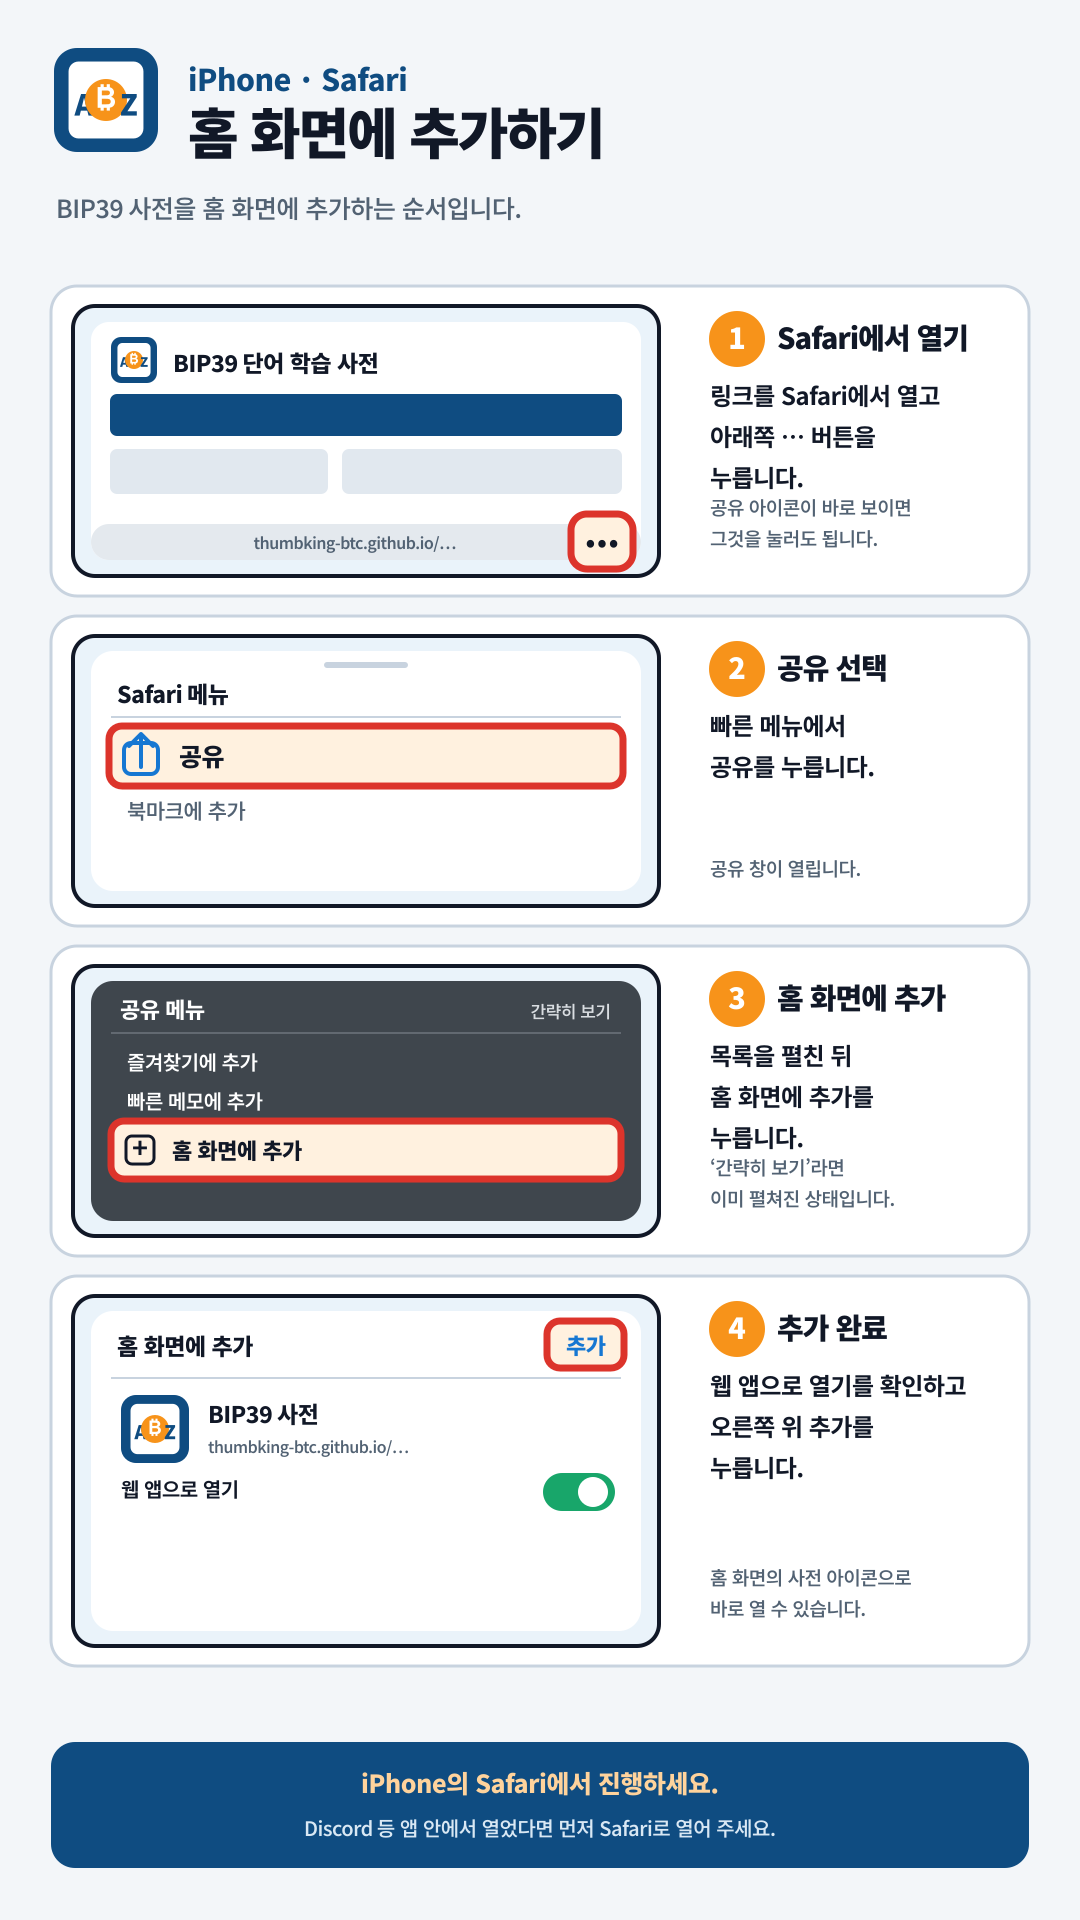
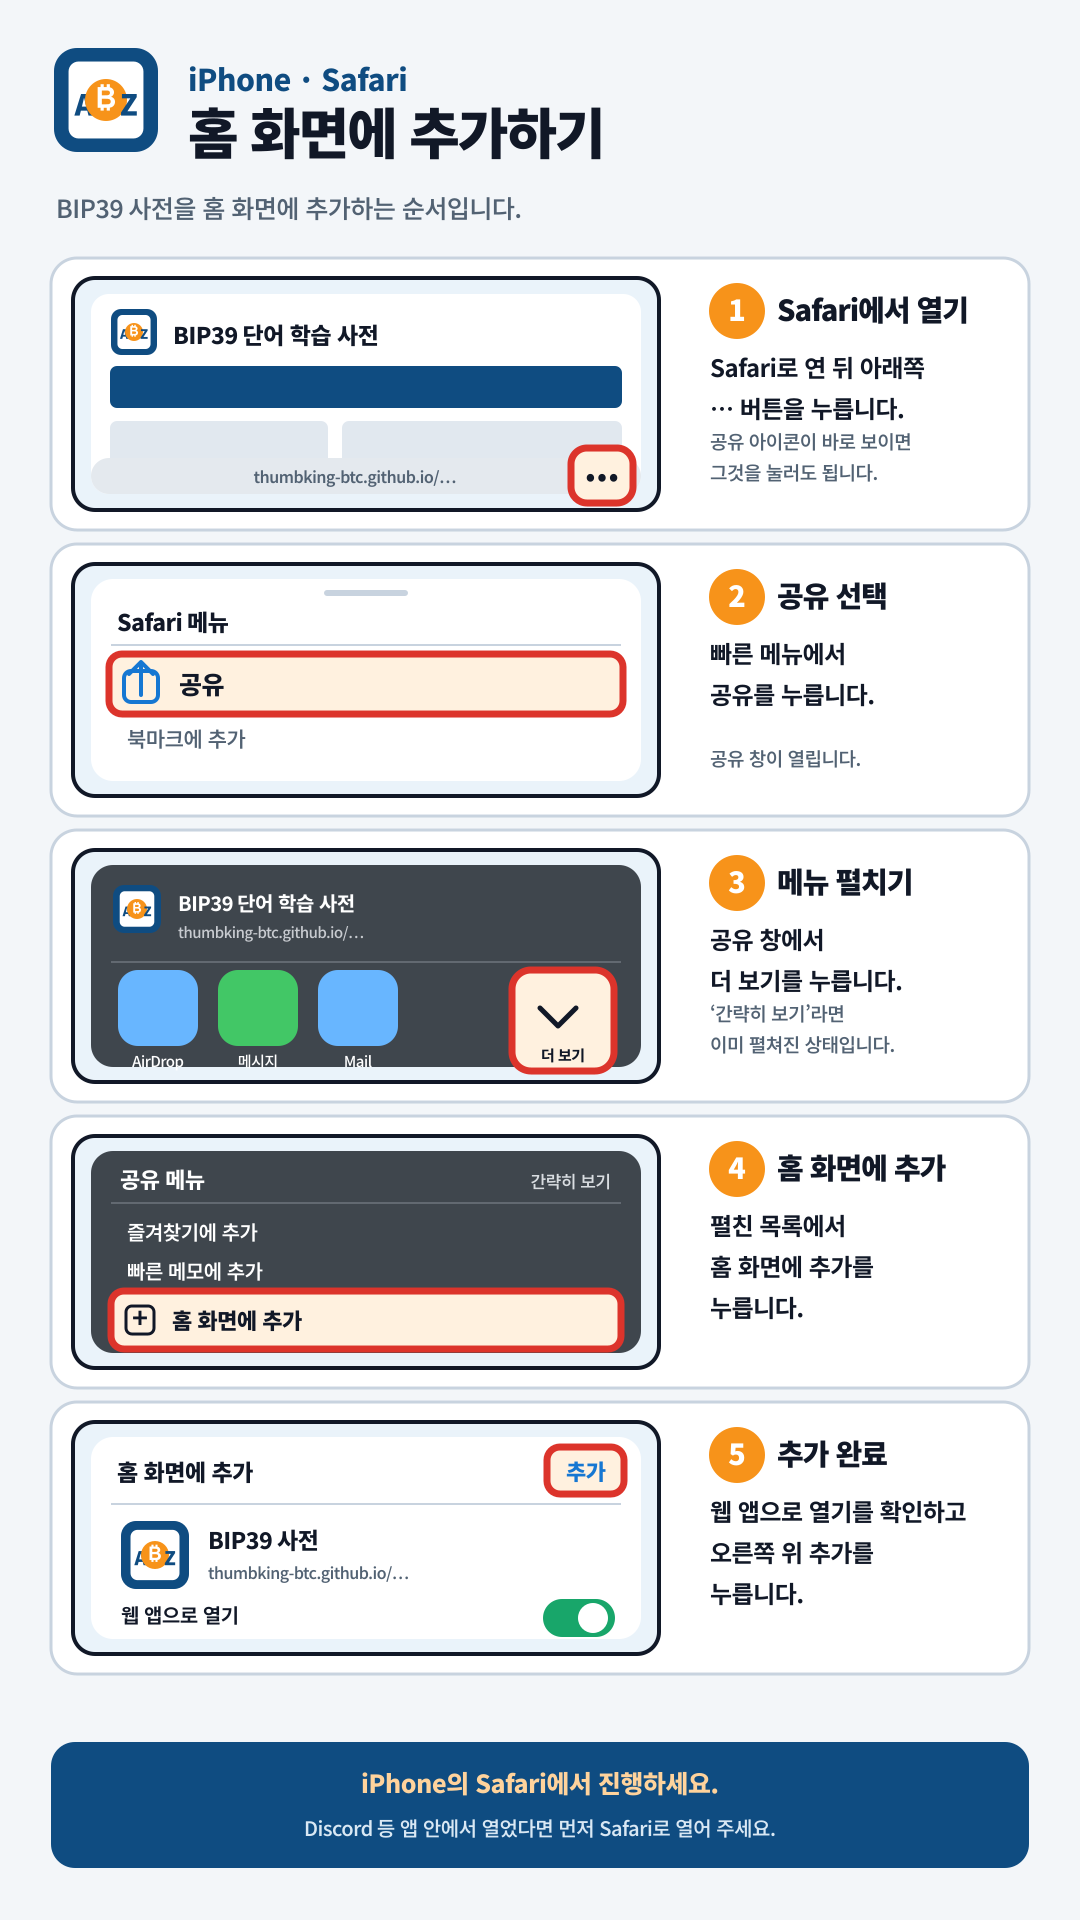
Expand the iPhone install guide to five steps

Changed region(s): [[0.0306, 0.125, 0.9472, 0.875], [0.9167, 0.8438, 0.9472, 0.875]]

diff --git a/install.html b/install.html
@@ -16,7 +16,7 @@
     .grid{display:grid;grid-template-columns:repeat(2,minmax(0,1fr));gap:18px;align-items:start}.card{min-width:0;overflow:hidden;border:1px solid #b9cad9;border-radius:20px;background:#fff;box-shadow:0 12px 34px rgba(15,23,42,.08)}
     .card header{padding:20px;border-bottom:1px solid #dbe4ec}.card header span{color:#0f4c81;font-size:12px;font-weight:900;letter-spacing:.08em}.card h2{margin:4px 0 0;font-size:clamp(24px,4vw,34px)}.steps{display:grid;gap:9px;margin:0;padding:19px 20px 19px 48px;color:#526273;line-height:1.55}.steps li::marker{color:#f7931a;font-weight:900}.card img{display:block;width:100%;height:auto;border-top:1px solid #dbe4ec;background:#f3f6f9}.actions{display:grid;grid-template-columns:1fr;border-top:1px solid #dbe4ec}.actions a{min-height:50px;border:0;border-radius:0;background:#0f4c81}
     .desktop{margin-top:18px;padding:22px;border:1px solid #b9cad9;border-radius:18px;background:#fff}.desktop h2{margin:0 0 8px}.desktop p{margin:0;color:#526273;line-height:1.65}.footnote{margin-top:18px;padding:18px 20px;border-radius:16px;background:#0f2740;color:#d8e7f3;line-height:1.65}.footnote strong{color:#ffd29a}
-    :focus-visible{outline:3px solid #f7931a;outline-offset:3px}@media(max-width:760px){.page{padding-top:12px}.grid{grid-template-columns:1fr}.hero{margin-top:10px;border-radius:18px}.hero h1{font-size:clamp(29px,9vw,40px)}}@media(prefers-reduced-motion:reduce){html{scroll-behavior:auto}}
+    :focus-visible{outline:3px solid #f7931a;outline-offset:3px}@media(min-width:761px){.grid{align-items:stretch}.card{display:flex;flex-direction:column}.card>img{flex:0 0 auto;margin-top:auto}}@media(max-width:760px){.page{padding-top:12px}.grid{grid-template-columns:1fr}.hero{margin-top:10px;border-radius:18px}.hero h1{font-size:clamp(29px,9vw,40px)}}@media(prefers-reduced-motion:reduce){html{scroll-behavior:auto}}
   </style>
 </head>
 <body>
@@ -32,8 +32,8 @@
     <div class="grid">
       <article class="card" id="iphone">
         <header><span>iPhone · iPad</span><h2>Safari에서 추가</h2></header>
-        <ol class="steps"><li>Discord·X 같은 앱 안에서 열었다면 먼저 Safari로 엽니다.</li><li>Safari의 공유 버튼을 누릅니다. 공유 버튼이 안 보이면 … 메뉴에서 공유를 선택합니다.</li><li>공유 목록을 펼쳐 홈 화면에 추가를 누릅니다.</li><li>웹 앱으로 열기를 확인하고 추가를 누릅니다.</li></ol>
-        <img src="./install/iphone-guide-v1.png" width="1080" height="1920" alt="iPhone Safari에서 BIP39 사전을 홈 화면에 추가하는 네 단계 안내">
+        <ol class="steps"><li>Discord·X 같은 앱 안에서 열었다면 먼저 Safari로 연 뒤 아래쪽 더 보기(…)를 누릅니다.</li><li>빠른 메뉴에서 공유를 누릅니다. 공유 아이콘이 바로 보이면 그것을 눌러도 됩니다.</li><li>공유 창에서 더 보기를 누릅니다. ‘간략히 보기’라고 표시된다면 이미 펼쳐진 상태입니다.</li><li>펼친 목록에서 홈 화면에 추가를 누릅니다.</li><li>웹 앱으로 열기를 확인하고 오른쪽 위 추가를 누릅니다.</li></ol>
+        <img src="./install/iphone-guide-v1.png" width="1080" height="1920" alt="iPhone Safari에서 BIP39 사전을 홈 화면에 추가하는 다섯 단계 안내">
         <div class="actions"><a href="./install/iphone-guide-v1.png" download="bip39-dictionary-iphone-install-guide.png">iPhone 안내 이미지 저장</a></div>
       </article>
       <article class="card" id="android">

diff --git a/pwa-register.js b/pwa-register.js
@@ -229,7 +229,7 @@
       hint = "설치를 누르면 브라우저의 실제 설치 확인창이 열립니다.";
     } else if (manualMode === "ios") {
       description = "iPhone에서는 Safari의 공유 메뉴에서 홈 화면에 추가할 수 있습니다.";
-      hint = "Safari에서 공유 버튼 → 홈 화면에 추가 → 추가 순서로 진행하세요.";
+      hint = "Safari에서 공유 버튼 → 메뉴 펼치기 → 홈 화면에 추가 → 추가 순서로 진행하세요.";
     } else if (manualMode === "inapp-ios") {
       description = "현재 앱 안 브라우저에서는 홈 화면 설치 메뉴가 보이지 않을 수 있습니다.";
       hint = "브라우저 메뉴에서 Safari로 연 뒤 홈 화면에 추가하세요.";

diff --git a/sw.js b/sw.js
@@ -1,7 +1,7 @@
 "use strict";
 
 const CACHE_PREFIX = "thumbking-btc-bip39-dictionary-pwa-";
-const CACHE_NAME = `${CACHE_PREFIX}v2.2-cda2b9b786ee`;
+const CACHE_NAME = `${CACHE_PREFIX}v2.2-cda2b9b786ee-install-guide3`;
 const SCOPE_URL = new URL(self.registration.scope);
 const scopedUrl = (path) => new URL(path, SCOPE_URL).href;
 const APP_SHELL_URL = scopedUrl("./");
